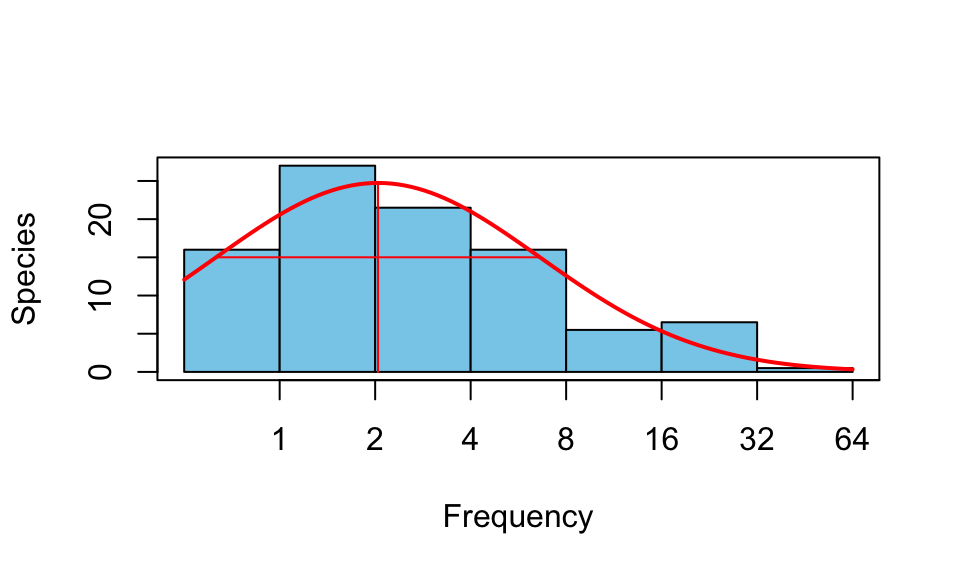
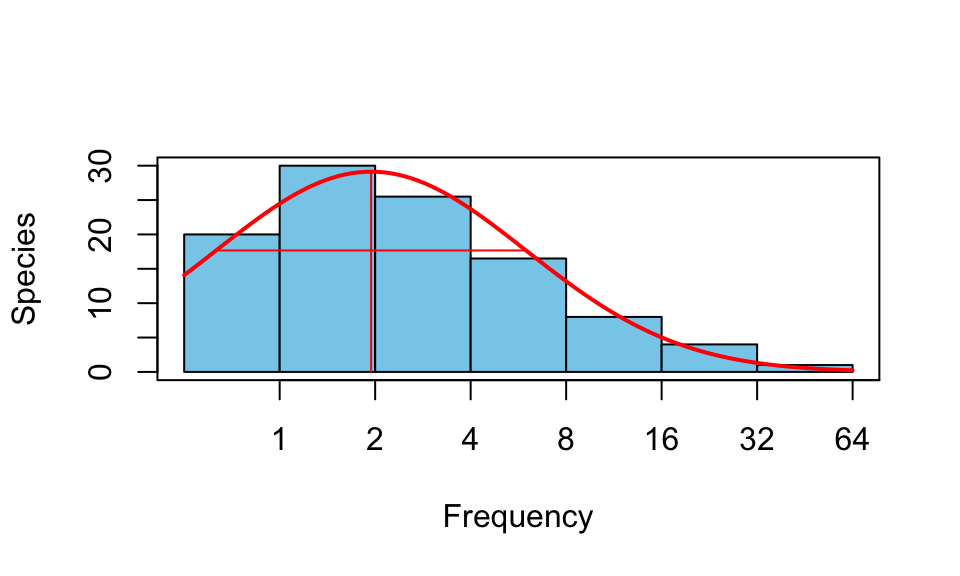
Multiple typos corrected.

diff --git a/content/quantecol/chapters/02b-biodiversity.md b/content/quantecol/chapters/02b-biodiversity.md
@@ -12,7 +12,7 @@ links:
     name: Shade et al. (2018)
     url: /pdf/BCB743/Shade_et_al_2018.pdf
 subtitle: ""
-title: "2b. Quantifying Structure and Patterns"
+title: "2b. Quantifying Structure and Pattern"
 weight: 4
 ---
 
@@ -20,7 +20,7 @@ In this Chapter we will explore how diversity is structured. Again refer to Davi
 
 ## Coenoclines, coenoplanes and coenospaces
 
-A **coenocline** is a graphical display of *all species* response curves (see definition, below) *simultaneously* along one environmental gradient. It aids our understanding of the species response curve if we imgine the gradient operating in only one geographical direction. The **coenoplane** concept extends the coenocline to cover two gradients. Again, our visual respresentation can be facilitated if the two gradients are visualised orthogonal (in this case, at right angles) to each other (e.g. east--west and north--south) and they do not interact. A **coenospace** complicates the model substantially, as it can allow for an unspecified number of gradients to operate simulataneously on multiple species at once, and it will probably also capture interactions of environmental drivers on the species.
+A **coenocline** is a graphical display of *all species* response curves (see definition, below) *simultaneously* along one environmental gradient. It aids our understanding of the species response curve if we imagine the gradient operating in only one geographical direction. The **coenoplane** concept extends the coenocline to cover two gradients. Again, our visual representation can be facilitated if the two gradients are visualised orthogonal (in this case, at right angles) to each other (e.g. east--west and north--south) and they do not interact. A **coenospace** complicates the model substantially, as it can allow for an unspecified number of gradients to operate simultaneously on multiple species at once, and it will probably also capture interactions of environmental drivers on the species.
 
 ### Species response curves
 
@@ -28,13 +28,13 @@ Plotting the abundance of a species as a function of position along a gradient i
 
 ### Unimodal species response
 
-The **unimodal** model is an idealised species reponse curve (visualised as a coenocline) where a species has only one mode of abundance. The unimodel model offers a convenient heuristic tool for understanding how species can become structured along environmental gradients. In this type of species response curve the species has one optimal environmental condition where it is most abundant (fewest ecophysiological and ecological stressors). If any aspect of the environment is suboptimal (greater or lesser than the optimum), the species will perform more poorly and it will have a lower abundance.
+The **unimodal** model is an idealised species response curve (visualised as a coenocline) where a species has only one mode of abundance. The unimodal model offers a convenient heuristic tool for understanding how species can become structured along environmental gradients. In this type of species response curve the species has one optimal environmental condition where it is most abundant (fewest ecophysiological and ecological stressors). If any aspect of the environment is suboptimal (greater or lesser than the optimum), the species will perform more poorly and it will have a lower abundance.
 
 The R package **coenocliner** implements the unimodal (and also a beta response model, not covered in the module). Please see the implementation of [**coenocliner** by Gavin Simpson](https://fromthebottomoftheheap.net/2014/07/31/simulating-species-abundance-data-with-the-coenocliner-package/), the author of the package. Download and install the package, and play around with its functionality in order to gain deeper insight into how gradients can structure communities (i.e., sort species).
 
 ## Macroecological patterns
 
-We have seen the distribution of one or several species along gradients, but lets extend the view to ecological patterns and the ecological processes that structure the communities -- sometimes we will see reference to 'community assembly processes' to desribe how species are structured into communities. Let's develop views that are based on all the information contained in the species tables, i.e. abundance, the number of sites, and the diversity of the biota. This deeper view is not necessarily captured if we limit our toolkit to species response curves (but they are certainly also counted, below).
+We have seen the distribution of one or several species along gradients, but lets extend the view to ecological patterns and the ecological processes that structure the communities---sometimes we will see reference to 'community assembly processes' to describe how species are structured into communities. Let's develop views that are based on all the information contained in the species tables, i.e. abundance, the number of sites, and the diversity of the biota. This deeper view is not necessarily captured if we limit our toolkit to species response curves (but they are certainly also counted, below).
 
 Some of you will be familiar with the paper by Shade et al. (2018). Several kinds of ecological patterns are mentioned in the paper, and they can be derived from a species table with abundance data (but *not* presence-absence data!) such as this mites dataset used extensively in the Numerical Ecology with R book:
 
@@ -59,7 +59,7 @@ Some of you will be familiar with the paper by Shade et al. (2018). Several kind
 
 Note that Figure 1 in Shade et al. (2018) starts with a species table where the species are arranged down the rows and the sites along the variables (columns). I, and also the **vegan** package, require that the **species are along the variables and the sites down the rows**. This is the convention that will be used throughout this module.
 
-Univariate diversity measures such as Simpson and Shannon diversity can be prepared from species tables, but we can also use it to calculate measures of beta-diversity that looks at pairwise comparisons (see below).
+Univariate diversity measures such as Simpson and Shannon diversity can be prepared from species tables, but we can also use it to calculate measures of β-diversity that looks at pairwise comparisons (see below).
 
 The patterns that can be derived from such a table include:
 
@@ -70,11 +70,11 @@ The patterns that can be derived from such a table include:
 * rarefaction curves;
 * elevation gradients.
 
-We will calculate each for the mites data.
+We will calculate each for the Barro Colorado Island Tree Counts data that come with **vegan**.
 
 ### Species-abundance distribution
 
-The species abundance distribution (SAD) is a fundamental pattern in ecology. Typical communities have a few species that are very abundant, whereas most of them are quite rare; indeed -- this is perhaps a universal law in ecology. SAD represents this relationship graphically by plotting the abundance rank on the `\(x\)`-axis and the number of species (or some other taxonomic level) along `\(y\)`, as was first done by R.A. Fisher and colleagues (1943). He then fitted the data by log series that ideally capture situations where most of the species are quite rare with only a few very abundant ones -- called **Fisher's log series distribution** -- and is implemented in **vegan** by the `fisherfit()` function:
+The species abundance distribution (SAD) is a fundamental pattern in ecology. Typical communities have a few species that are very abundant, whereas most of them are quite rare; indeed---this is perhaps a universal law in ecology. SAD represents this relationship graphically by plotting the abundance rank on the `\(x\)`-axis and the number of species (or some other taxonomic level) along `\(y\)`, as was first done by R.A. Fisher and colleagues (1943). He then fitted the data by log series that ideally capture situations where most of the species are quite rare with only a few very abundant ones---called **Fisher's log series distribution**---and is implemented in **vegan** by the `fisherfit()` function:
 
 
 ```r
@@ -93,8 +93,8 @@ fish
 ```
 ## 
 ## Fisher log series model
-## No. of species: 93 
-## Fisher alpha:   36.16927
+## No. of species: 105 
+## Fisher alpha:   43.53983
 ```
 
 ```r
@@ -115,15 +115,15 @@ pres
 ## 
 ## Preston lognormal model
 ## Method: maximized likelihood to log2 abundances 
-## No. of species: 93 
+## No. of species: 105 
 ## 
-##      mode     width        S0 
-##  1.029866  1.695599 24.741956 
+##       mode      width         S0 
+##  0.9574541  1.6226595 29.1315004 
 ## 
 ## Frequencies by Octave
-##                0        1        2        3        4       5         6
-## Observed 16.0000 27.00000 21.50000 16.00000 5.500000 6.50000 0.5000000
-## Fitted   20.5744 24.73812 21.00633 12.59731 5.335182 1.59575 0.3370734
+##                 0        1        2        3        4        5         6
+## Observed 20.00000 30.00000 25.50000 16.50000 8.000000 4.000000 1.0000000
+## Fitted   24.47713 29.12149 23.69874 13.19155 5.022556 1.308014 0.2330016
 ```
 
 ```r
@@ -143,14 +143,14 @@ rad
 ```
 ## 
 ## RAD models, family poisson 
-## No. of species 93, total abundance 437
+## No. of species 105, total abundance 442
 ## 
 ##            par1      par2     par3    Deviance AIC      BIC     
-## Null                                   71.4490 341.0108 341.0108
-## Preemption  0.046363                   57.1444 328.7062 331.2388
-## Lognormal   0.94233   1.1186           31.8308 305.3925 310.4577
-## Zipf        0.13172  -0.81947          48.8686 322.4304 327.4956
-## Mandelbrot  2.8626   -1.5964   8.3763   8.7297 284.2914 291.8892
+## Null                                   63.7881 361.7503 361.7503
+## Preemption  0.039086                   60.6770 360.6391 363.2931
+## Lognormal   0.85921   1.0913           20.1649 322.1271 327.4350
+## Zipf        0.12092  -0.79937          28.7972 330.7594 336.0673
+## Mandelbrot  0.90845  -1.3074   5.5974   5.0666 309.0287 316.9906
 ```
 
 ```r
@@ -172,12 +172,12 @@ rad2
 ## 
 ## Deviance for RAD models:
 ## 
-##                  27       44       42       50       22      43
-## Null        74.9255  77.9340  33.7036  66.6294 114.1747 92.4312
-## Preemption  76.2115  63.5966  21.8063  51.5143 110.5156 82.4328
-## Lognormal   23.1209  18.3749  19.6278  21.2540  26.2510 20.2361
-## Zipf        25.9943  29.2166  49.1963  38.8722  15.5222 20.0974
-## Mandelbrot  17.2257  11.5869   4.9471   9.3815   9.6047  9.5133
+##                  33       23       49       47        8      25
+## Null        90.8682  55.4639 102.4194 105.2750  54.2317 63.7881
+## Preemption  77.0177  53.4573  80.8330  81.6840  59.9013 60.6770
+## Lognormal   18.0569  21.9550  29.5229  43.1745  13.9156 20.1649
+## Zipf        23.2245  20.0961  33.2876  48.6464  21.3906 28.7972
+## Mandelbrot   4.7472   7.4609   5.3571   9.4122   6.5744  5.0666
 ```
 
 ```r
@@ -186,4 +186,38 @@ plot(rad2)
 
 <img src="/quantecol/chapters/02b-biodiversity_files/figure-html/unnamed-chunk-5-1.png" width="672" />
 
-Above, we see that the model selected for capturing the shape of the SAD is Mandelbrot, and it is plotted individually for each of the randomly selected sites. Model selection works through Akaike’s or Schwartz’s Bayesian information criteria (AIC or BIC; AIC is the default -- select the model with the lowest AIC).
+Above, we see that the model selected for capturing the shape of the SAD is Mandelbrot, and it is plotted individually for each of the randomly selected sites. Model selection works through Akaike’s or Schwartz’s Bayesian information criteria (AIC or BIC; AIC is the default---select the model with the lowest AIC).
+
+### Occupancy-abundance curves
+
+### Species-area curves
+
+### Distance-decay curves
+
+### Rarefaction curves
+
+(...under development...)
+
+Species richness, *S*, accumulates with sample size, and sample size may also affect differences in richness (typically more samples taken will yield a greater richness). Rarefaction curves show species richness as a function of number of individuals sampled.
+
+
+```r
+quantile(rowSums(BCI))
+```
+
+```
+##    0%   25%   50%   75%  100% 
+## 340.0 409.0 428.0 443.5 601.0
+```
+
+```r
+Srar <- data.frame(rar = rarefy(BCI, min(rowSums(BCI))))
+
+ggplot(Srar, aes(x = 1:nrow(Srar), y = rar)) +
+  geom_point()
+```
+
+<img src="/quantecol/chapters/02b-biodiversity_files/figure-html/unnamed-chunk-6-1.png" width="672" />
+
+
+### Eelevation and other gradients

diff --git a/content/quantecol/chapters/01-introduction.md b/content/quantecol/chapters/01-introduction.md
@@ -27,11 +27,11 @@ weight: 2
 ## Macroecology and quantitative ecology
 
 Macroecology is an all-encompassing view of ecology, which seeks to define the geographical patterns and processes in biodiversity across all spatial scales, from local to global, across time scales from years to millennia, and across all taxonomic hierarchies (from genetic variability within species, up to major higher level taxa, such as families and orders). It attempts to arrive a unifying theory for ecology across all of these scales—e.g. one that can explain all patterns in structure and functioning from microbes to blue whales. Most importantly, perhaps, is that it attempts to offer mechanistic explanations for these patterns. At the heart of all explanation is also deep insights stemming from understanding evolution (facilitated by the growth of phylogenetic datasets -- see below).
-This is a modern development of ecology, whereas up to 20 years ago the focus has been mostly on populations (the dynamics of individuals of one species interacting amongst each other and with their environment) and communities (collections of multiple populations, and how they interact with each other and their environment, and how this affects the structure and dynamics of ecosystems).
+This is a modern development of ecology, whereas up to 20 years ago the focus has been mostly on populations (the dynamics of individuals of one species interacting among each other and with their environment) and communities (collections of multiple populations, and how they interact with each other and their environment, and how this affects the structure and dynamics of ecosystems).
 
-On a basic data analytical level, population ecology, community ecology, and macroecology all share the same approach as far as the underlying data are concerned. We start with **tables of species and environmental** conditions at a selection of sites, and these are converted to **distance and dissimilarity matrices**. From here analyses can show insights into how biodiversity is structured, e.g. **species-abundance distributions**, **occupancy-abundancy curves**, **species-area curves**, **distance decay curves**, and **gradient analyses**. 
+On a basic data analytical level, population ecology, community ecology, and macroecology all share the same approach as far as the underlying data are concerned. We start with **tables of species and environmental** conditions at a selection of sites, and these are converted to **distance and dissimilarity matrices**. From here analyses can show insights into how biodiversity is structured, e.g. **species-abundance distributions**, **occupancy-abundance curves**, **species-area curves**, **distance decay curves**, and **gradient analyses**. 
 
-In the last decade, modern developments in statistical approaches have contributed towards the development of macroecology, because of the growth of **hypotheses-driven multivariate statistical approaches** geared to test for the presence of one or several ecological hypotheses -- this was not seen in population and community ecology so much. Contributing towards the growth of macroecology and the underlying statistical approaches, the deluge of new data across vast scales has also necessitated deeper analytical development, i.e. leveraging statistical tools and also the power of **modern computing infrastructure**. These modern approaches are also bringing into the fold of combined computations based on species and environmental tables also data on the phylogenetic relationships amongst organisms (and hence this brings the context of evolution).
+In the last decade, modern developments in statistical approaches have contributed towards the development of macroecology, because of the growth of **hypotheses-driven multivariate statistical approaches** geared to test for the presence of one or several ecological hypotheses -- this was not seen in population and community ecology so much. Contributing towards the growth of macroecology and the underlying statistical approaches, the deluge of new data across vast scales has also necessitated deeper analytical development, i.e. leveraging statistical tools and also the power of **modern computing infrastructure**. These modern approaches are also bringing into the fold of combined computations based on species and environmental tables also data on the phylogenetic relationships among organisms (and hence this brings the context of evolution).
 
 ## Data
 
@@ -39,7 +39,7 @@ In the last decade, modern developments in statistical approaches have contribut
 
 Ecological data sets are usually arrange in a *matrix*, which **has species (or higher level taxa, whose resolution depends on the research question at hand) arranged as columns** and **samples (typically the sites, stations, transects, time, plots, etc.) as rows**. We call this a **sites × species** table. In the case of environmental data it will of course be a **sites × environment** table. The term 'sample' may be applied differently compared to how we used it in the [Basic Statistics Workshop](https://ajsmit.github.io/R_Stats_Official/); here we use it to denote the basic unit of observation. Samples may be quadrats, transects, stations, sites, traps, seine net tows, trawls, grids cells on a map, etc. It is important to clearly and unambiguously define the basic unit of the sample in the paper's Methods section.
 
-Example species and environmental data sets are displayed below in Figures 2.1-2.4. The species matrix here comprises distribution records of 846 macroalgal species within each of 58 × 50 km-long sections along South Africa's coastline. So, the matrix has 58 rows, one for each sample (here each of the coastal sections), and 846 columns, one for each of the seaweed species found in South Africa. Some of the coastal sections do not have a species present and it will simply be coded as 0 (for not present in the case of presence/absence data, or 0 units of biomass or abundance, etc.). The matching environmental data set has information about various measurements of seawater temperature and chlorophyll-*a* content --- their names are along the columns, and there are 18 of them. It is important that a sample of the environment is available for each of the seaweed samples, so there will also be 58 rows present in this data set. So, it is a matching data set in the sense that each sample of species data is matched by a sample of the environment (both have 58 rows). Using this data set, it was the intention of Smit et al. (2017) to describe the gradients in seaweed distribution as a function of the underlying seawater temperatures.
+Example species and environmental data sets are displayed below in Figures 2.1-2.4. The species matrix here comprises distribution records of 846 macroalgal species within each of 58 × 50 km-long sections along South Africa's coastline. So, the matrix has 58 rows, one for each sample (here each of the coastal sections), and 846 columns, one for each of the seaweed species found in South Africa. Some of the coastal sections do not have a species present and it will simply be coded as 0 (for not present in the case of presence/absence data, or 0 units of biomass or abundance, etc.). The matching environmental data set has information about various measurements of seawater temperature and chlorophyll-*a* content---their names are along the columns, and there are 18 of them. It is important that a sample of the environment is available for each of the seaweed samples, so there will also be 58 rows present in this data set. So, it is a matching data set in the sense that each sample of species data is matched by a sample of the environment (both have 58 rows). Using this data set, it was the intention of Smit et al. (2017) to describe the gradients in seaweed distribution as a function of the underlying seawater temperatures.
 
 ![The table (or spreadsheet) view of the species data. Note the species codes appearing as column headers; numbered from 1 through to 58 (row 58 is at the bottom of the table, so you'd have to scroll down to see it) at the bottom of the table are each of the samples --- in this case, there is one sample per station.](/quantecol/chapters/01-introduction_files/species_table.png)
 

diff --git a/content/quantecol/chapters/02a-biodiversity.md b/content/quantecol/chapters/02a-biodiversity.md
@@ -379,11 +379,11 @@ ggplot(data = abs_beta, (aes(x = section_no, y = beta))) +
 
 #### Contemporary definitions β-diversity
 
-Contemporary views of β-diversity are available by [Baselga et al. (2010)](/pdf/BCB743/Baselga_2010.pdf) and [Anderson et al. (2011)](/pdf/BCB743/Anderson_et_al_2011.pdf). Nowadays we see β-diversity is a concept that describes how species assemblages (communities) measured within the ecosystem of interest vary from place to place, e.g. between the various transects or quadrats used to sample the ecosystem. β-diversity results from habitat heterogeneity (along gradients, or randomly). We have already seen two concepts of β-diversity, viz. true β-diversity and absolute species turnover---both of these rely on knowledge of species richness at local (a measure of α-diversity) and regional (γ-diversity) scales. Much more insight into *species assembly processes* can be extracted, however, when we view β-diversity as a dissmilarity index. In this view, we will see that there are two processes by which β-diversity might be affected (i.e. in which the patterning of communities over landscapes might arise). These offer glimpses into mechanistic influences about how ecosystems are structured.
+Contemporary views of β-diversity are available by [Baselga et al. (2010)](/pdf/BCB743/Baselga_2010.pdf) and [Anderson et al. (2011)](/pdf/BCB743/Anderson_et_al_2011.pdf). Nowadays we see β-diversity is a concept that describes how species assemblages (communities) measured within the ecosystem of interest vary from place to place, e.g. between the various transects or quadrats used to sample the ecosystem. β-diversity results from habitat heterogeneity (along gradients, or randomly). We have already seen two concepts of β-diversity, viz. true β-diversity and absolute species turnover---both of these rely on knowledge of species richness at local (a measure of α-diversity) and regional (γ-diversity) scales. Much more insight into *species assembly processes* can be extracted, however, when we view β-diversity as a dissimilarity index. In this view, we will see that there are two processes by which β-diversity might be affected (i.e. in which the patterning of communities over landscapes might arise). These offer glimpses into mechanistic influences about how ecosystems are structured.
 
 **Process 1:** If a region is comprised of the species A, B, C, ..., M (i.e. γ-diversity is 13), a subset of the regional flora as captured by one quadrat might be species **A**, **D**, E, whereas in another quadrat it might be species **A**, **D**, F. In this instance, the α-diversity is 3 in both instances, and heterogeneity (and hence β-diversity) results from the fact that the first quadrat has species E but the other has species F. In other words, here we have the same number of species in both quadrats, but only two of the species are the same. The process responsible for this form of β-diversity is species 'turnover', `\(\beta_\text{sim}\)`. Turnover refers to processes that cause communities to differ due to species being lost and/or gained from section to section, i.e. the species composition changes between sections without corresponding changes in α-diversity.
 
-**Process 2:** Consider again species A, B, C, ..., M. Now we have the first quadrat with species **A**, **B**, C, D, **G**, H (α-diversity is 6) and the second quadrat has a subset of this, e.g. only species **A**, **B**, **G** (α-diversity 3). Here, β-diversity comes from the fact that even if the two places share the same species, the number of species can still differ amongst the quadrats (i.e. from place to place) due to one quadrat capturing only a subset of species present in the other. This form of β-diversity is called 'nestedness-resultant' β-diversity, `\(\beta_\text{sne}\)`, and it refers to processes that cause species to be gained or lost, and the community with the lowest α-diversity is a subset of the richer community.
+**Process 2:** Consider again species A, B, C, ..., M. Now we have the first quadrat with species **A**, **B**, C, D, **G**, H (α-diversity is 6) and the second quadrat has a subset of this, e.g. only species **A**, **B**, **G** (α-diversity 3). Here, β-diversity comes from the fact that even if the two places share the same species, the number of species can still differ among the quadrats (i.e. from place to place) due to one quadrat capturing only a subset of species present in the other. This form of β-diversity is called 'nestedness-resultant' β-diversity, `\(\beta_\text{sne}\)`, and it refers to processes that cause species to be gained or lost, and the community with the lowest α-diversity is a subset of the richer community.
 
 The above two examples show that β-diversity is coupled not only with the identity of the species in the quadrats, but also α-diversity---with species richness in particular.
 
